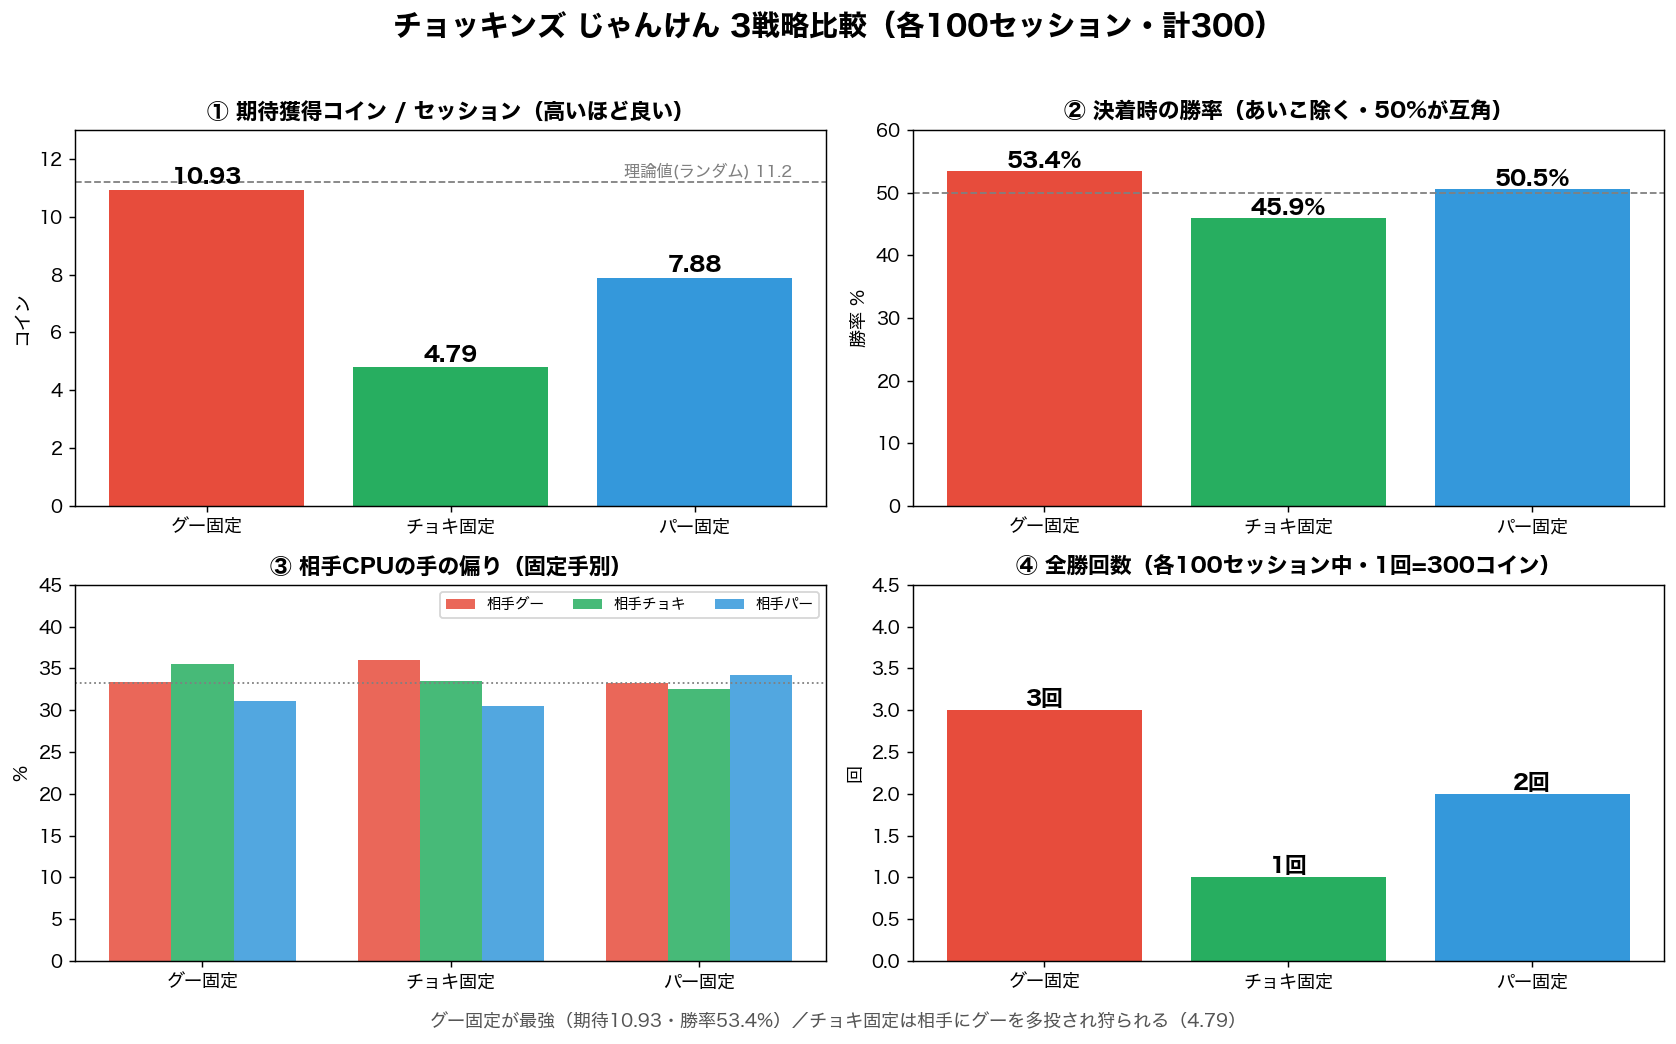
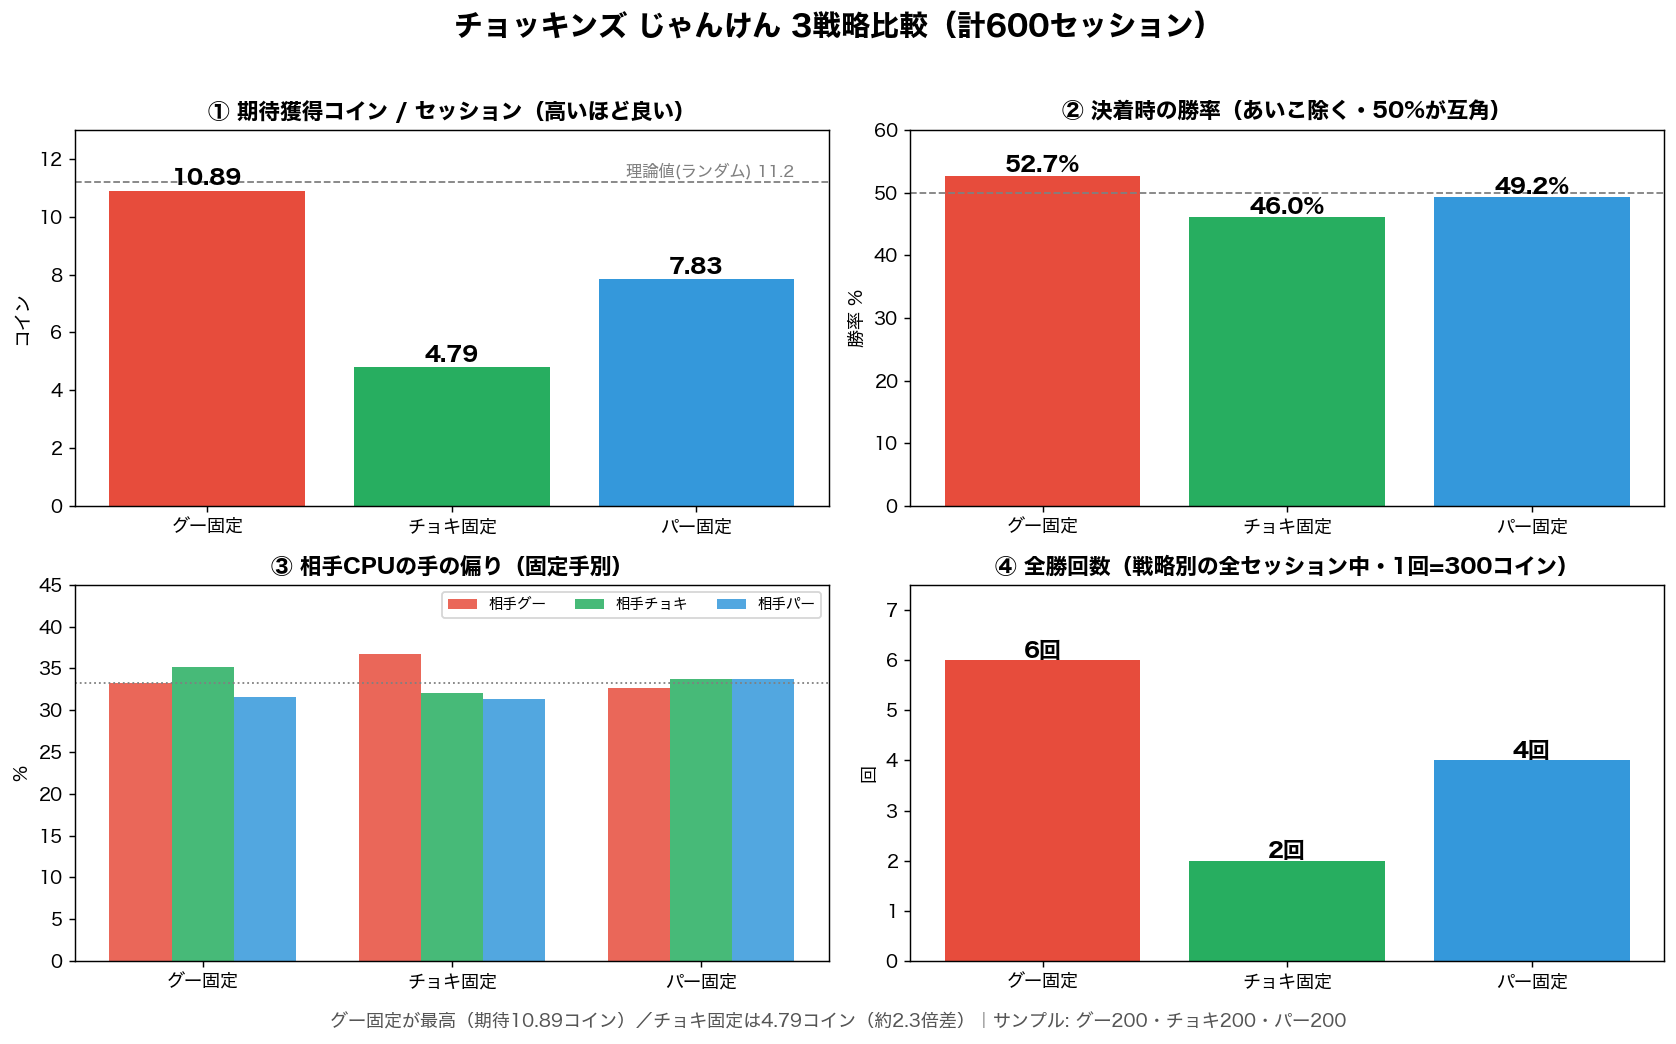
Update chokkinzu janken article to 600 sessions

diff --git a/articles/chokkinzu.html b/articles/chokkinzu.html
@@ -4,12 +4,12 @@
   <meta charset="UTF-8">
   <meta name="viewport" content="width=device-width, initial-scale=1.0">
   <title>LINEポイ活チョッキンズの稼ぎ方｜じゃんけん最適解を実測検証【2026最新】</title>
-  <meta name="description" content="LINEポイ活チョッキンズを実測検証。放置の現実的な稼ぎ方と、かちぬきじゃんけん300回で分かった最も得する手（グー固定が最適）を、コインボーナス1,768回のデータとあわせて公開します。">
+  <meta name="description" content="LINEポイ活チョッキンズを実測検証。放置の現実的な稼ぎ方と、かちぬきじゃんけん600回で分かった最も得する手（グー固定が最適）を、コインボーナス1,768回のデータとあわせて公開します。">
   <link rel="canonical" href="https://poimoru-blog.satorunaoi0731.workers.dev/articles/chokkinzu">
   <link rel="icon" href="/icon.png">
   <meta property="og:type" content="article">
   <meta property="og:title" content="LINEポイ活チョッキンズの稼ぎ方｜じゃんけん最適解を実測検証">
-  <meta property="og:description" content="放置の稼ぎ方と、じゃんけん300回で分かった最も得する手（グー固定）を実測データで公開。">
+  <meta property="og:description" content="放置の稼ぎ方と、じゃんけん600回で分かった最も得する手（グー固定）を実測データで公開。">
   <meta property="og:url" content="https://poimoru-blog.satorunaoi0731.workers.dev/articles/chokkinzu">
   <meta property="og:image" content="https://poimoru-blog.satorunaoi0731.workers.dev/articles/images/og-chokkinzu.png">
   <meta property="og:site_name" content="歩いてモルディブへ行く男">
@@ -18,11 +18,11 @@
   {
     "@context": "https://schema.org","@type": "Article",
     "headline": "LINEポイ活チョッキンズの稼ぎ方｜じゃんけん最適解を実測検証【2026最新】",
-    "description": "放置の稼ぎ方と、じゃんけん300回で分かった最も得する手（グー固定）を実測データで公開。",
+    "description": "放置の稼ぎ方と、じゃんけん600回で分かった最も得する手（グー固定）を実測データで公開。",
     "image": "https://poimoru-blog.satorunaoi0731.workers.dev/articles/images/og-chokkinzu.png",
     "author": { "@type": "Person", "name": "ポイモル" },
     "publisher": { "@type": "Organization", "name": "歩いてモルディブへ行く男" },
-    "datePublished": "2026-06-07","dateModified": "2026-06-07",
+    "datePublished": "2026-06-07","dateModified": "2026-07-25",
     "mainEntityOfPage": "https://poimoru-blog.satorunaoi0731.workers.dev/articles/chokkinzu"
   }
   </script>
@@ -31,7 +31,7 @@
     "@context": "https://schema.org","@type": "FAQPage","mainEntity": [
       {"@type":"Question","name":"チョッキンズは稼げる？","acceptedAnswer":{"@type":"Answer","text":"放置メインのため単体では月50〜150円程度。歩かず手間ゼロで貯まるのが価値で、他のLINE系と併用するのがおすすめです。"}},
       {"@type":"Question","name":"チョッキンズに招待コードはある？","acceptedAnswer":{"@type":"Answer","text":"招待コード制度はありません。LINEログインだけで登録でき、コード入力は不要です。"}},
-      {"@type":"Question","name":"じゃんけんは何を出すのが得？","acceptedAnswer":{"@type":"Answer","text":"実測300回ではグー固定が最適（1回10.93コイン）。チョキ固定は相手にグーを多投され狩られ、4.79コインと最弱でした。"}},
+      {"@type":"Question","name":"じゃんけんは何を出すのが得？","acceptedAnswer":{"@type":"Answer","text":"各手200セッション、計600回の実測ではグー固定が最適（1回10.89コイン）。チョキ固定は4.79コインと最弱でした。"}},
       {"@type":"Question","name":"コインの換金レートは？","acceptedAnswer":{"@type":"Answer","text":"36,000コイン＝300 LINEポイント（120コイン＝1円）です。"}}
     ]
   }
@@ -62,9 +62,9 @@
       <span class="article-badge orange">実測データあり</span>
       <h1>LINEポイ活チョッキンズの稼ぎ方｜じゃんけん最適解を実測検証【2026年最新版】</h1>
       <div class="article-meta-bar">
-        <span>📅 2026年6月掲載</span>
+        <span>📅 2026年6月掲載・7月25日更新</span>
         <span>✍ ポイモル</span>
-        <span>🔄 コインボーナス1,768回・じゃんけん300回検証</span>
+        <span>🔄 コインボーナス1,768回・じゃんけん600回検証</span>
         <span>📖 約11分で読めます</span>
       </div>
     </div>
@@ -73,7 +73,7 @@
 
       <p class="lead">
         <strong>結論：チョッキンズは完全放置で月50〜150円。招待コードは無く、LINEログインだけで始められます。</strong><br>
-        最大のコツは、毎日のかちぬきじゃんけんを<strong>「グー」で固定すること</strong>。この記事は、筆者が<strong>コインボーナス1,768回・じゃんけん300回</strong>を実プレイして記録した一次データに基づき、放置の稼ぎ方とじゃんけんの最適解を解説します。
+        最大のコツは、毎日のかちぬきじゃんけんを<strong>「グー」で固定すること</strong>。この記事は、筆者が<strong>コインボーナス1,768回・じゃんけん600回</strong>を実プレイして記録した一次データに基づき、放置の稼ぎ方とじゃんけんの最適解を解説します。
       </p>
 
       <nav class="toc">
@@ -82,7 +82,7 @@
           <li><a href="#result">チョッキンズは月いくら稼げる？【結論】</a></li>
           <li><a href="#about">チョッキンズとは？基本情報</a></li>
           <li><a href="#how">稼ぎ方・始め方（招待コード不要）</a></li>
-          <li><a href="#data">実測データ｜コインボーナス1,768回＆じゃんけん300回</a></li>
+          <li><a href="#data">実測データ｜コインボーナス1,768回＆じゃんけん600回</a></li>
           <li><a href="#sim">月収シミュレーション</a></li>
           <li><a href="#proscons">メリット・デメリット</a></li>
           <li><a href="#faq">よくある質問</a></li>
@@ -93,7 +93,7 @@
       <h2 id="result">チョッキンズは月いくら稼げる？【結論】</h2>
       <p>放置メインのアプリなので、単体では<strong>月50〜150円程度</strong>が現実ラインです。歩く必要も大量の広告も不要で、アプリを開いてタンクを回収するだけ。「手間ゼロでコツコツ」が価値です。</p>
       <div class="result-box">
-        📊 <strong>効率のカギ：</strong>コインボーナスは1回約<strong>17.7コイン（≒0.15円）</strong>。そして毎日3回のじゃんけんは<strong>グー固定が最適（1回10.93コイン）</strong>で、チョキ固定の2倍以上得をします。
+        📊 <strong>効率のカギ：</strong>コインボーナスは1回約<strong>17.7コイン（≒0.15円）</strong>。そして毎日3回のじゃんけんは<strong>グー固定が最適（1回10.89コイン）</strong>で、チョキ固定の約2.3倍得をします。
       </div>
 
       <h2 id="about">チョッキンズとは？基本情報</h2>
@@ -118,10 +118,10 @@
       <h3>④ チョッキンズの育成・スキル</h3>
       <p>「コインボーナス系」「どんぐりスピードアップ系」などのスキルで効率が上がります。</p>
 
-      <h2 id="data">実測データ｜コインボーナス1,768回＆じゃんけん300回</h2>
+      <h2 id="data">実測データ｜コインボーナス1,768回＆じゃんけん600回</h2>
       <div class="eeat-box">
         <div class="advice-title">🔬 この章の検証方法</div>
-        筆者が<strong>コインボーナスの当選結果1,768回</strong>と、かちぬきじゃんけんを<strong>「グー固定・チョキ固定・パー固定」で各100回・計300回</strong>プレイし、全結果を記録・集計しました。以下はその一次データです。
+        筆者が<strong>コインボーナスの当選結果1,768回</strong>と、かちぬきじゃんけんを<strong>グー固定・チョキ固定・パー固定で各200回・計600回</strong>プレイし、全結果を記録・集計しました。以下はその一次データです。
       </div>
 
       <h3>コインボーナス1,768回の内訳</h3>
@@ -144,16 +144,16 @@
       </div>
       <figure>
         <img src="images/janken-compare.png" alt="チョッキンズ じゃんけん3戦略比較グラフ（グー固定・チョキ固定・パー固定）" style="width:100%; border-radius:8px; border:1px solid #e5e5e5;">
-        <figcaption style="font-size:12px; color:#666; text-align:center; margin-top:6px;">かちぬきじゃんけん 3戦略比較（各100セッション・計300回／筆者実測）</figcaption>
+        <figcaption style="font-size:12px; color:#666; text-align:center; margin-top:6px;">かちぬきじゃんけん 3戦略比較（各200セッション・計600回／筆者実測）</figcaption>
       </figure>
       <table>
         <tr><th>戦略</th><th>1回あたり期待コイン</th><th>全勝回数</th><th>決着時の勝率※</th></tr>
-        <tr><td>✊ <strong>グー固定</strong></td><td><strong>10.93コイン</strong></td><td>3回</td><td><strong>53.4%</strong></td></tr>
-        <tr><td>🖐 パー固定</td><td>7.88コイン</td><td>2回</td><td>50.5%</td></tr>
-        <tr><td>✌ チョキ固定</td><td>4.79コイン</td><td>1回</td><td>45.9%</td></tr>
+        <tr><td>✊ <strong>グー固定</strong></td><td><strong>10.89コイン</strong></td><td>6回</td><td><strong>52.7%</strong></td></tr>
+        <tr><td>🖐 パー固定</td><td>7.83コイン</td><td>4回</td><td>49.2%</td></tr>
+        <tr><td>✌ チョキ固定</td><td>4.79コイン</td><td>2回</td><td>46.0%</td></tr>
       </table>
       <p>※決着時の勝率＝あいこを除く「勝ち÷（勝ち＋負け）」。50%が互角。</p>
-      <p>固定する手で相手の出方が変化し、<strong>チョキを出し続けると相手はグーを多めに返してくる</strong>（36.0%）傾向が見られました。相手がランダムなら理論値は約11.2コインで、グー固定はほぼ理論どおり。一方<strong>チョキ固定は理論値の半分以下＝読まれて狩られている</strong>証拠です。</p>
+      <p>固定する手で相手の出方が変化し、<strong>チョキを出し続けると相手はグーを多めに返してくる</strong>（36.0%）傾向が見られました。相手がランダムなら理論値は約11.2コインで、グー固定はこれを上回りました。一方<strong>チョキ固定は理論値の半分以下＝読まれて狩られている</strong>可能性があります。</p>
       <div class="advice-box">
         <div class="advice-title">💡 じゃんけんの結論</div>
         毎日3回のじゃんけんは<strong>「グー」を出し続ける</strong>のが最適。チョキ固定ははっきり損をします。
@@ -161,10 +161,10 @@
       <div class="warn-box">⚠ 戦略差の大部分は全勝（1回300コイン）回数の振れもありますが、全勝に依存しない「決着勝率」でも順位はグー＞パー＞チョキで一致しており、方向性は信頼できます。</div>
 
       <h2 id="sim">月収シミュレーション</h2>
-      <p>実測値をもとにした試算です（コインボーナス17.7コイン・じゃんけんグー固定10.93コイン基準）。</p>
+      <p>実測値をもとにした試算です（コインボーナス17.7コイン・じゃんけんグー固定10.89コイン基準）。</p>
       <table>
         <tr><th>使い方</th><th>1日の目安</th><th>月間（30日）</th></tr>
-        <tr><td>じゃんけんのみ（毎日3回・グー固定）</td><td>約33コイン</td><td>約990コイン（<strong>約8円</strong>）</td></tr>
+        <tr><td>じゃんけんのみ（毎日3回・グー固定）</td><td>約33コイン</td><td>約980コイン（<strong>約8円</strong>）</td></tr>
         <tr><td>軽め放置（回収＋ボーナス10回＋じゃんけん）</td><td>約210コイン</td><td>約6,300コイン（<strong>約53円</strong>）</td></tr>
         <tr><td>しっかり回収（広告4倍＋ボーナス20回＋じゃんけん）</td><td>約430コイン</td><td>約12,900コイン（<strong>約108円</strong>）</td></tr>
       </table>
@@ -192,12 +192,12 @@
       <p class="faq-q">Q. 招待コードはある？</p>
       <p>ありません。LINEログインだけで登録でき、コード入力は不要です。</p>
       <p class="faq-q">Q. じゃんけんは何を出すのが得？</p>
-      <p>実測300回ではグー固定が最適（1回10.93コイン）。チョキ固定は狩られて4.79コインと最弱でした。</p>
+      <p>各手200セッション、計600回の実測ではグー固定が最適（1回10.89コイン）。チョキ固定は4.79コインと最弱でした。</p>
       <p class="faq-q">Q. 換金レートは？</p>
       <p>36,000コイン＝300 LINEポイント（120コイン＝1円）です。</p>
 
       <h2 id="summary">まとめ・次の一歩</h2>
-      <p>チョッキンズは「<strong>放置で淡々と貯める土台アプリ</strong>」。毎日のじゃんけんは<strong>グー固定</strong>が最適で、チョキより2倍以上得をします。単体は少額なので、招待コードでまとまった額がもらえる他アプリと組み合わせるのが賢い使い方です。</p>
+        <p>チョッキンズは「<strong>放置で淡々と貯める土台アプリ</strong>」。毎日のじゃんけんは<strong>グー固定</strong>が最適で、今回の実測ではチョキ固定の約2.3倍でした。ただし全勝回数によるブレもあるため、差がそのまま今後も再現すると断定はできません。単体は少額なので、招待コードでまとまった額がもらえる他アプリと組み合わせるのが賢い使い方です。</p>
       <div class="advice-box">
         <div class="advice-title">✅ 今日やること3ステップ</div>
         1. チョッキンズをダウンロード（LINEログインだけ・コード不要）<br>
@@ -207,7 +207,7 @@
       <p>招待コードでお得に始められる <a href="torima.html">トリマ</a>・<a href="kartie-point.html">カルティポイント</a> もあわせてどうぞ。</p>
 
       <div class="disclaimer">
-        ※ 本記事の情報・実測データは2026年6月時点のものです。確率・コイン数・交換レート・じゃんけんの仕様は変更される場合があります。収益は個人の実績であり、成果を保証するものではありません。
+        ※ 本記事の情報・実測データは2026年7月25日時点のものです。確率・コイン数・交換レート・じゃんけんの仕様は変更される場合があります。収益は個人の実績であり、成果を保証するものではありません。
       </div>
 
     </div><!-- /.article-content -->
